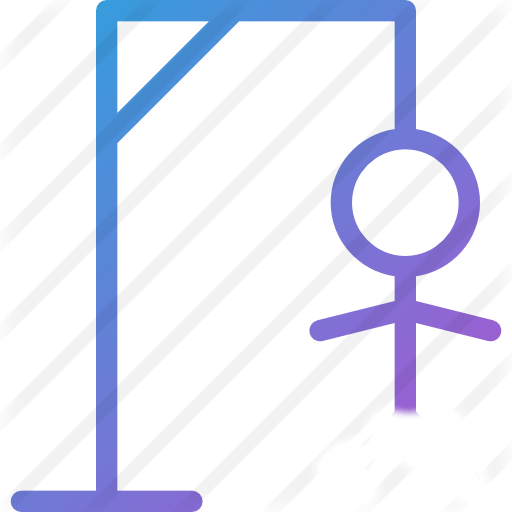
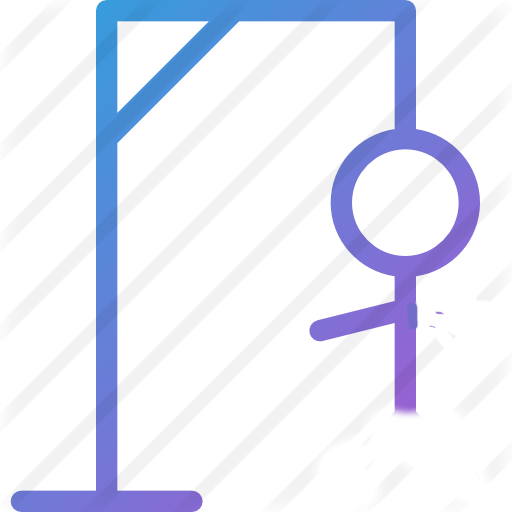
message if you lose; no helloMessage in meni; more images for mistakes; PREVIOUS GUESSESS  WORK; WORK; WORK

Changed region(s): [[0.8125, 0.5938, 1.0, 0.6875]]

diff --git a/src/com/logic/servlets/LoginServlet.java b/src/com/logic/servlets/LoginServlet.java
@@ -1,7 +1,6 @@
 package com.logic.servlets;
 
 import java.io.IOException;
-import java.sql.SQLException;
 
 import javax.servlet.RequestDispatcher;
 import javax.servlet.ServletException;
@@ -12,11 +11,7 @@ import javax.servlet.http.HttpServletResponse;
 import javax.servlet.http.HttpSession;
 
 import com.logic.dao.UserImplementation;
-import com.logic.dto.GameplayO;
 import com.logic.dto.User;
-import com.logic.dao.WordImplementation;
-import com.logic.dto.Word;
-
 
 @SuppressWarnings("serial")
 @WebServlet("/login")
@@ -53,65 +48,7 @@ public class LoginServlet extends HttpServlet{
 			session.setAttribute("user_id", ValidUser.getId());
 			String Message = "Hi, " + session.getAttribute("username") + "!";
 			req.setAttribute("helloMessage", Message);
-			//forward to home jsp
-			
-//			// Ovdje je postavljena jedna rije� onako, koja bi se trebala izvu� iz
-//			// baze
-//			WordImplementation wordDAO = new WordImplementation();
-//			Word randWord=null;
-//			try {
-//				randWord = wordDAO.readWord();
-//				GameplayO.setWord(randWord.getWord().toUpperCase());
-//				GameplayO.setCategory(randWord.getWord_category());
-//				//session.setAttribute(arg0, arg1);
-//			} catch (SQLException e) {
-//				// TODO Auto-generated catch block
-//				e.printStackTrace();
-//			}
-//			session.setAttribute("wordCategory", GameplayO.getCategory());
-//			
-//			/*req.setAttribute("wordCategory", GameplayO.getCategory());
-//			*/
-//			
-//
-//			// Varijabla myWord predstavlja ono �to je korinsik pogodio, odnosno
-//			// nije pogodio
-//			
-//			GameplayO.setMyWord("");
-//
-//			// U ovoj ovdje petlji varijabli se dodjeljuju crtice umjesto slovo
-//			// Ima onoliko crtica koliko je duga�ka rije�
-//			// for (int i = 0; i < word.length(); i++)
-//			// myWord = myWord + "-";
-//			GameplayO.setCrtice();
-//			session.setAttribute("wordHolder", GameplayO.getMyWord());
-//			/*req.setAttribute("wordHolder", GameplayO.getMyWord());
-//			*/
-//
-//			// Ovaj niz predstavlja to da li je slovo pogo�eno ili nije pogo�eno
-//			// boolean[] letters = new boolean[26];
-//			GameplayO.setPreviousGuesses("");
-//			
-//			// int points = 100, brojac = 0;
-//			GameplayO.setPoints(100);
-//			GameplayO.setLives(0);
-//			session.setAttribute("wrongAnswers", GameplayO.getLives());
-//			/*req.setAttribute("wrongAnswers", GameplayO.getLives());
-//			req.setAttribute("previouseGuesses", GameplayO.getLetters());
-//			req.setAttribute("score",GameplayO.getPoints());*/
-//			
-//			GameplayO.setPreviousGuesses("");
-//			session.setAttribute("previouseGuesses",GameplayO.getPreviousGuesses());
-//			session.setAttribute("score", GameplayO.getPoints());
-//			
-//			req.setAttribute("wordCategory", GameplayO.getCategory());
-//			req.setAttribute("wordHolder", GameplayO.getMyWord());
-//			req.setAttribute("wrongAnswers", GameplayO.getLives());
-//			req.setAttribute("previouseGuesses", GameplayO.getPreviousGuesses());
-//			req.setAttribute("score",GameplayO.getPoints());
-//			//String Message="Hi, " +req.getAttribute("wordHolder") + "!";
-//			req.setAttribute("error", Message);
-//
+		
 
 		req.getRequestDispatcher("meni").forward(req, resp);
 		}

diff --git a/src/com/logic/servlets/PlayServlet.java b/src/com/logic/servlets/PlayServlet.java
@@ -10,10 +10,8 @@ import javax.servlet.http.HttpServletRequest;
 import javax.servlet.http.HttpServletResponse;
 import javax.servlet.http.HttpSession;
 
-import com.logic.dao.UserImplementation;
 import com.logic.dao.WordImplementation;
 import com.logic.dto.GameplayO;
-import com.logic.dto.User;
 import com.logic.dto.Word;
 
 
@@ -31,38 +29,34 @@ public class PlayServlet extends HttpServlet {
 					HttpSession session = req.getSession();
 
 		
-		// Ovdje je postavljena jedna rije� onako, koja bi se trebala izvu� iz
-					// baze
+		// uzima rijec  iz baze
 					WordImplementation wordDAO = new WordImplementation();
 					Word randWord=null;
 					try {
 						randWord = wordDAO.readWord();
 						GameplayO.setWord(randWord.getWord().toUpperCase());
 						GameplayO.setCategory(randWord.getWord_category());
-						//session.setAttribute(arg0, arg1);
+						
 					} catch (SQLException e) {
-						// TODO Auto-generated catch block
+						
 						e.printStackTrace();
 					}
 					session.setAttribute("wordCategory", GameplayO.getCategory());
 					
-					/*req.setAttribute("wordCategory", GameplayO.getCategory());
-					*/
+					
 					
 
-					// Varijabla myWord predstavlja ono �to je korinsik pogodio, odnosno
+					// Varijabla myWord predstavlja ono sto je korinsik pogodio, odnosno
 					// nije pogodio
 					
 					GameplayO.setMyWord("");
 
 					// U ovoj ovdje petlji varijabli se dodjeljuju crtice umjesto slovo
 					// Ima onoliko crtica koliko je duga�ka rije�
-					// for (int i = 0; i < word.length(); i++)
-					// myWord = myWord + "-";
+
 					GameplayO.setCrtice();
 					session.setAttribute("wordHolder", GameplayO.getMyWord());
-					/*req.setAttribute("wordHolder", GameplayO.getMyWord());
-					*/
+				
 
 					// Ovaj niz predstavlja to da li je slovo pogo�eno ili nije pogo�eno
 					// boolean[] letters = new boolean[26];
@@ -72,11 +66,8 @@ public class PlayServlet extends HttpServlet {
 					GameplayO.setPoints(100);
 					GameplayO.setLives(0);
 					session.setAttribute("wrongAnswers", GameplayO.getLives());
-					/*req.setAttribute("wrongAnswers", GameplayO.getLives());
-					req.setAttribute("previouseGuesses", GameplayO.getLetters());
-					req.setAttribute("score",GameplayO.getPoints());*/
+				
 					
-					GameplayO.setPreviousGuesses("");
 					session.setAttribute("previouseGuesses",GameplayO.getPreviousGuesses());
 					session.setAttribute("score", GameplayO.getPoints());
 					
@@ -85,8 +76,7 @@ public class PlayServlet extends HttpServlet {
 					req.setAttribute("wrongAnswers", GameplayO.getLives());
 					req.setAttribute("previouseGuesses", GameplayO.getPreviousGuesses());
 					req.setAttribute("score",GameplayO.getPoints());
-					//String Message="Hi, " +req.getAttribute("wordHolder") + "!";
-					//req.setAttribute("error", Message);
+				
 
 					req.getRequestDispatcher("play.jsp").forward(req, res);
 	}

diff --git a/src/com/logic/servlets/GameServlet.java b/src/com/logic/servlets/GameServlet.java
@@ -28,9 +28,7 @@ public class GameServlet extends HttpServlet {
 		// create a cart as arraylist for the user
 		String currentGuess = (String) session.getAttribute("UserGuess");
 		System.out.println(currentGuess);
-		/*
-		 * if(currentGuess==null){ currentGuess = ""; }
-		 */
+		
 
 		String message = "Prosao sam   " + currentGuess;
 		req.setAttribute("error", message);
@@ -64,13 +62,13 @@ public class GameServlet extends HttpServlet {
 			GameplayO.setLetter(sLetter.charAt(0));
 
 			int result = GameplayO.result();
-			System.out.println("result =" + result);
+			
 
 			if (result == 1) {
 				Message = "Letter is allready guessed.";
 
 			} else if (result == 2) {
-				// System.out.println(GameplayO.getMyWord());
+				
 				if (GameplayO.getMyWord().compareTo(GameplayO.getWord()) == 0) {
 					// pogodjeno = true;
 					Message = "You win ! You have " + GameplayO.getPoints() + " points";
@@ -82,19 +80,35 @@ public class GameServlet extends HttpServlet {
 						// TODO Auto-generated catch block
 						e.printStackTrace();
 					}
-					if (GameplayO.getMyWord().compareTo(GameplayO.getWord()) == 0) {
-						resp.setHeader("Refresh", "5;url=meni");
-					}
+					String helloMessage = "Hi, " + session.getAttribute("username") + "!";
+					req.setAttribute("helloMessage", helloMessage);
+					resp.setHeader("Refresh", "5;url=meni");
+//					if (GameplayO.getMyWord().compareTo(GameplayO.getWord()) == 0) {
+//						resp.setHeader("Refresh", "5;url=meni");
+//					}
 				}
-//				if((int) (req.getAttribute("wrongAnswers")) == 4) {
-//					resp.setHeader("Refresh", "5;url=play");
-//				}
+
 			} else {
 				// Broja� se pove�ava da se zna koliko �e se korisniku oduzeti
 				// bodova ako profula slovo
 				// brojac++;
 				GameplayO.setLives((GameplayO.getLives() + 1));
 				Message = "You did not guess a letter.";
+				if (GameplayO.getLives() == 6) {
+					// pogodjeno = false;
+					Message = "You lost. You're hanged.";
+					GameImplementation newGame = new GameImplementation();
+
+					try {
+						newGame.addGame(GameplayO.getPoints(), (int) session.getAttribute("user_id"));
+					} catch (SQLException e) {
+						// TODO Auto-generated catch block
+						e.printStackTrace();
+					}
+					String helloMessage = "Hi, " + session.getAttribute("username") + "!";
+					req.setAttribute("helloMessage", helloMessage);
+					resp.setHeader("Refresh", "5;url=meni");
+				}
 			}
 		}
 

diff --git a/src/com/logic/dto/GameplayO.java b/src/com/logic/dto/GameplayO.java
@@ -61,7 +61,7 @@ public class GameplayO {
 
 				
 				catWord=rs.getString("name");
-				System.out.println(catWord);
+				
 
 			}
 		
@@ -110,14 +110,14 @@ public class GameplayO {
 	public static int result() {
 
 		//if (letters[GameplayO.getLetter() - 45]) {
-		System.out.println(previousGuesses);
+		
 		if (previousGuesses.indexOf(GameplayO.getLetter())!=-1) {
 			return 1;
 
 		} else {
-
-			previousGuesses.concat(GameplayO.getLetter()+"");
-			System.out.println(previousGuesses);
+			String added=previousGuesses+GameplayO.getLetter()+" ";
+			GameplayO.setPreviousGuesses(added);
+			
 			if (exists()) {
 				modifyMyWord();
 				return 2;
